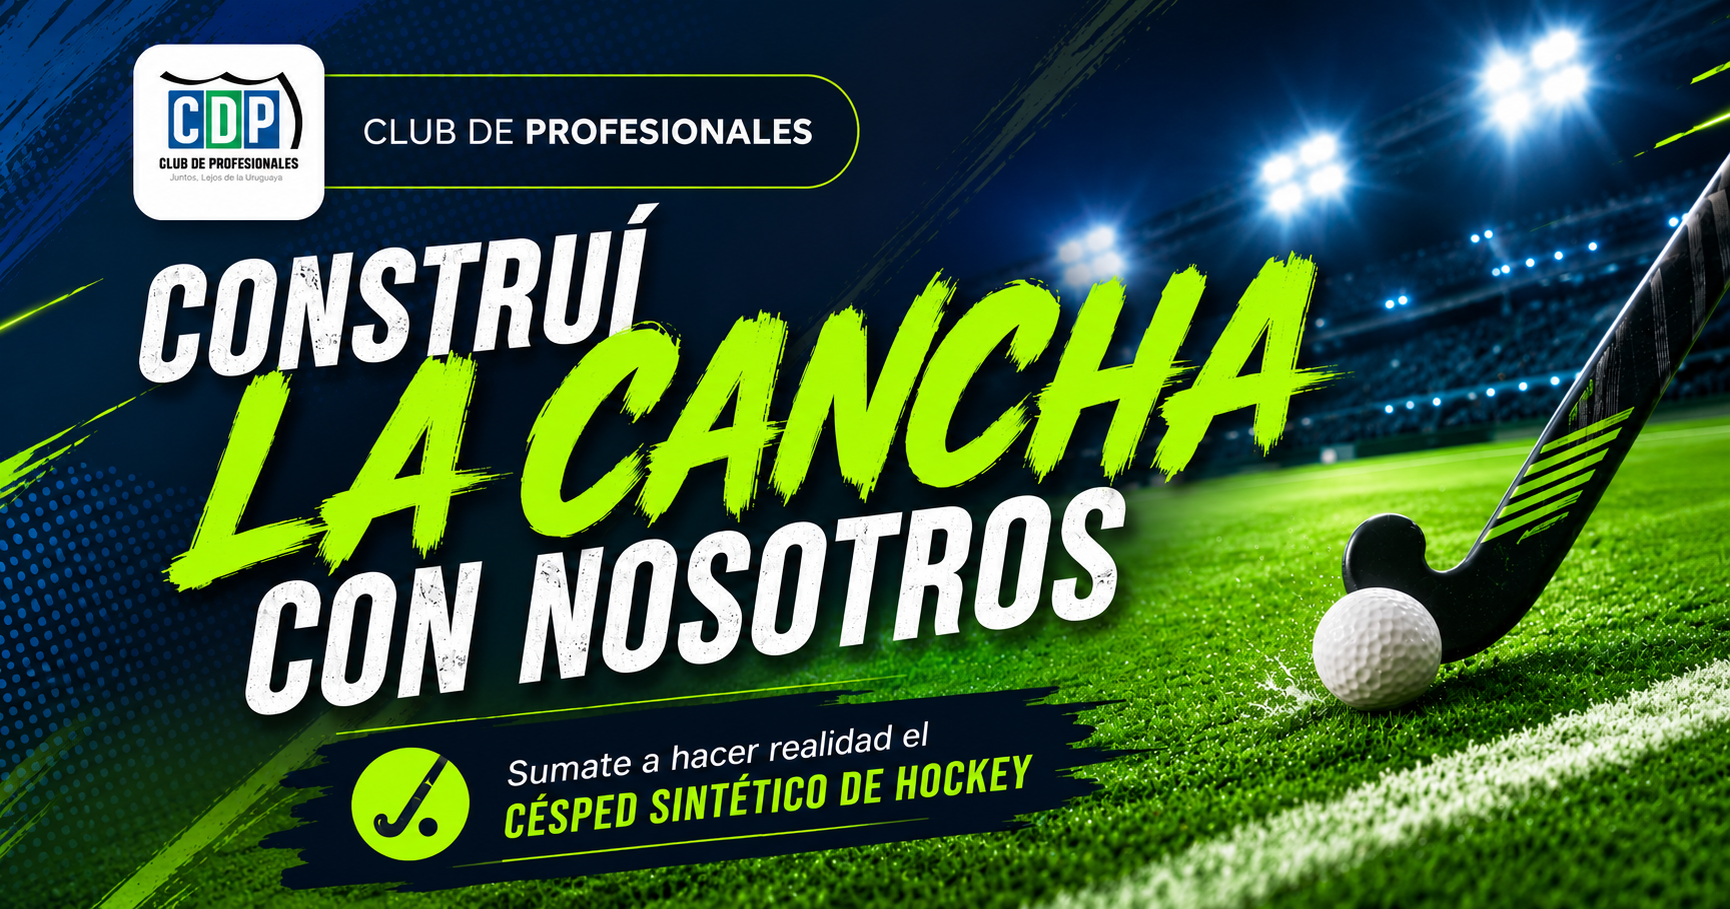
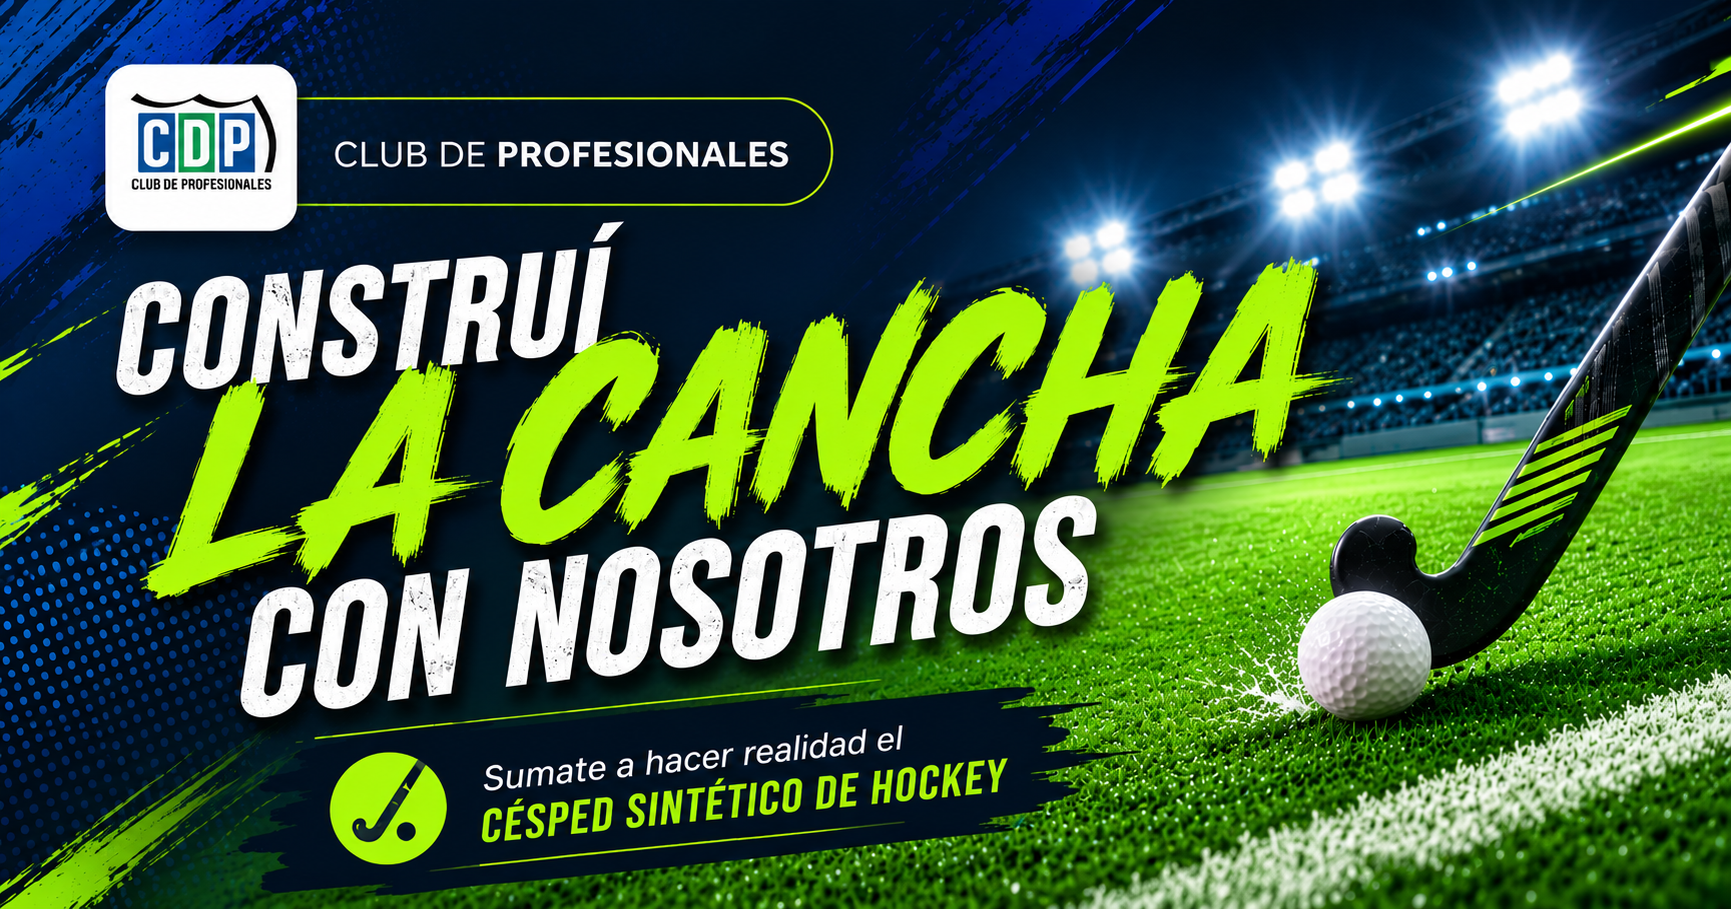
Add files via upload

diff --git a/index.html b/index.html
@@ -15,7 +15,7 @@
   <!-- Open Graph (previsualización en WhatsApp, Facebook, etc.) -->
   <meta property="og:title" content="Sé parte de la cancha 🏑">
   <meta property="og:description" content="Entre todos construimos el césped sintético del Club de Profesionales. Cada metro cuenta. ¡Sumá el tuyo!">
-  <meta property="og:image" content="https://sintetico.cdpcdelu.ar/og.jpg">
+  <meta property="og:image" content="https://sintetico.cdpcdelu.ar/og.png">
   <meta property="og:image:width" content="1200">
   <meta property="og:image:height" content="630">
   <meta property="og:url" content="https://sintetico.cdpcdelu.ar">
@@ -25,7 +25,7 @@
   <meta name="twitter:card" content="summary_large_image">
   <meta name="twitter:title" content="Sé parte de la cancha 🏑">
   <meta name="twitter:description" content="Entre todos construimos el césped sintético del Club de Profesionales. ¡Sumá tu metro²!">
-  <meta name="twitter:image" content="https://sintetico.cdpcdelu.ar/og.jpg">
+  <meta name="twitter:image" content="https://sintetico.cdpcdelu.ar/og.png">
   
   <!-- Favicon -->
   <link rel="icon" type="image/png" href="https://lh3.googleusercontent.com/d/1evrGwiWdvbM39EVJk0LGtbM8Fa100IFF">
